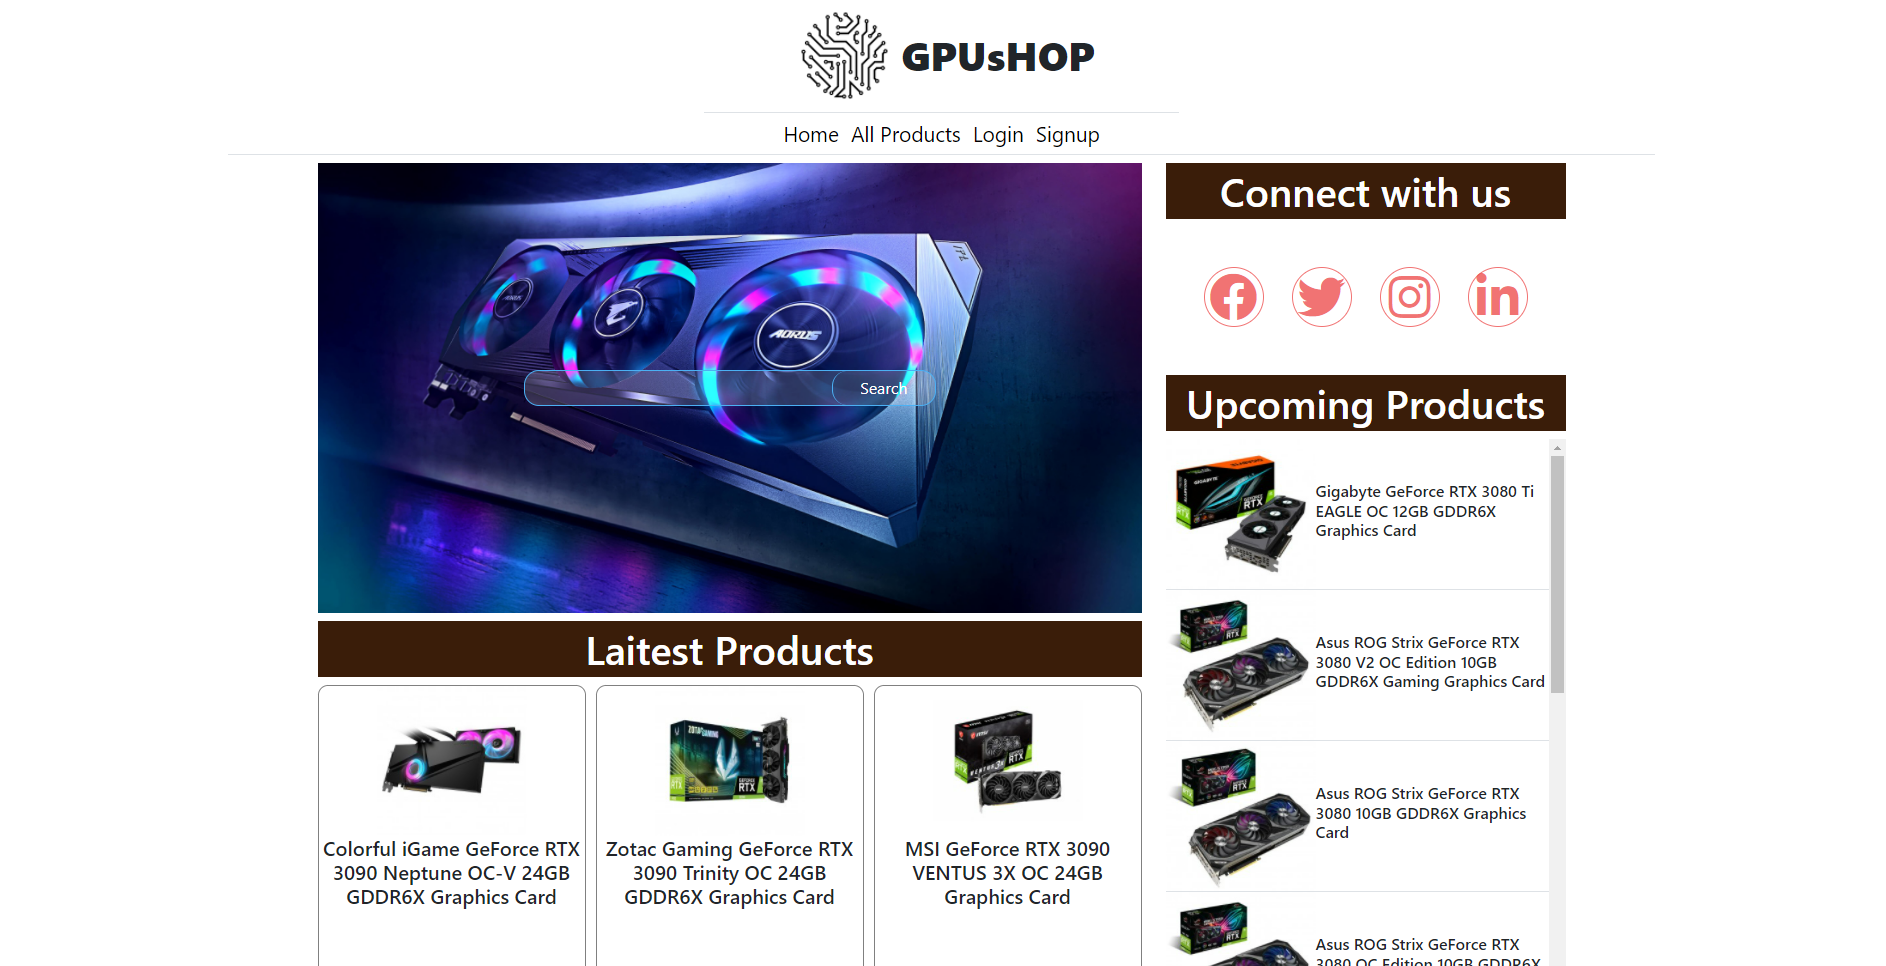
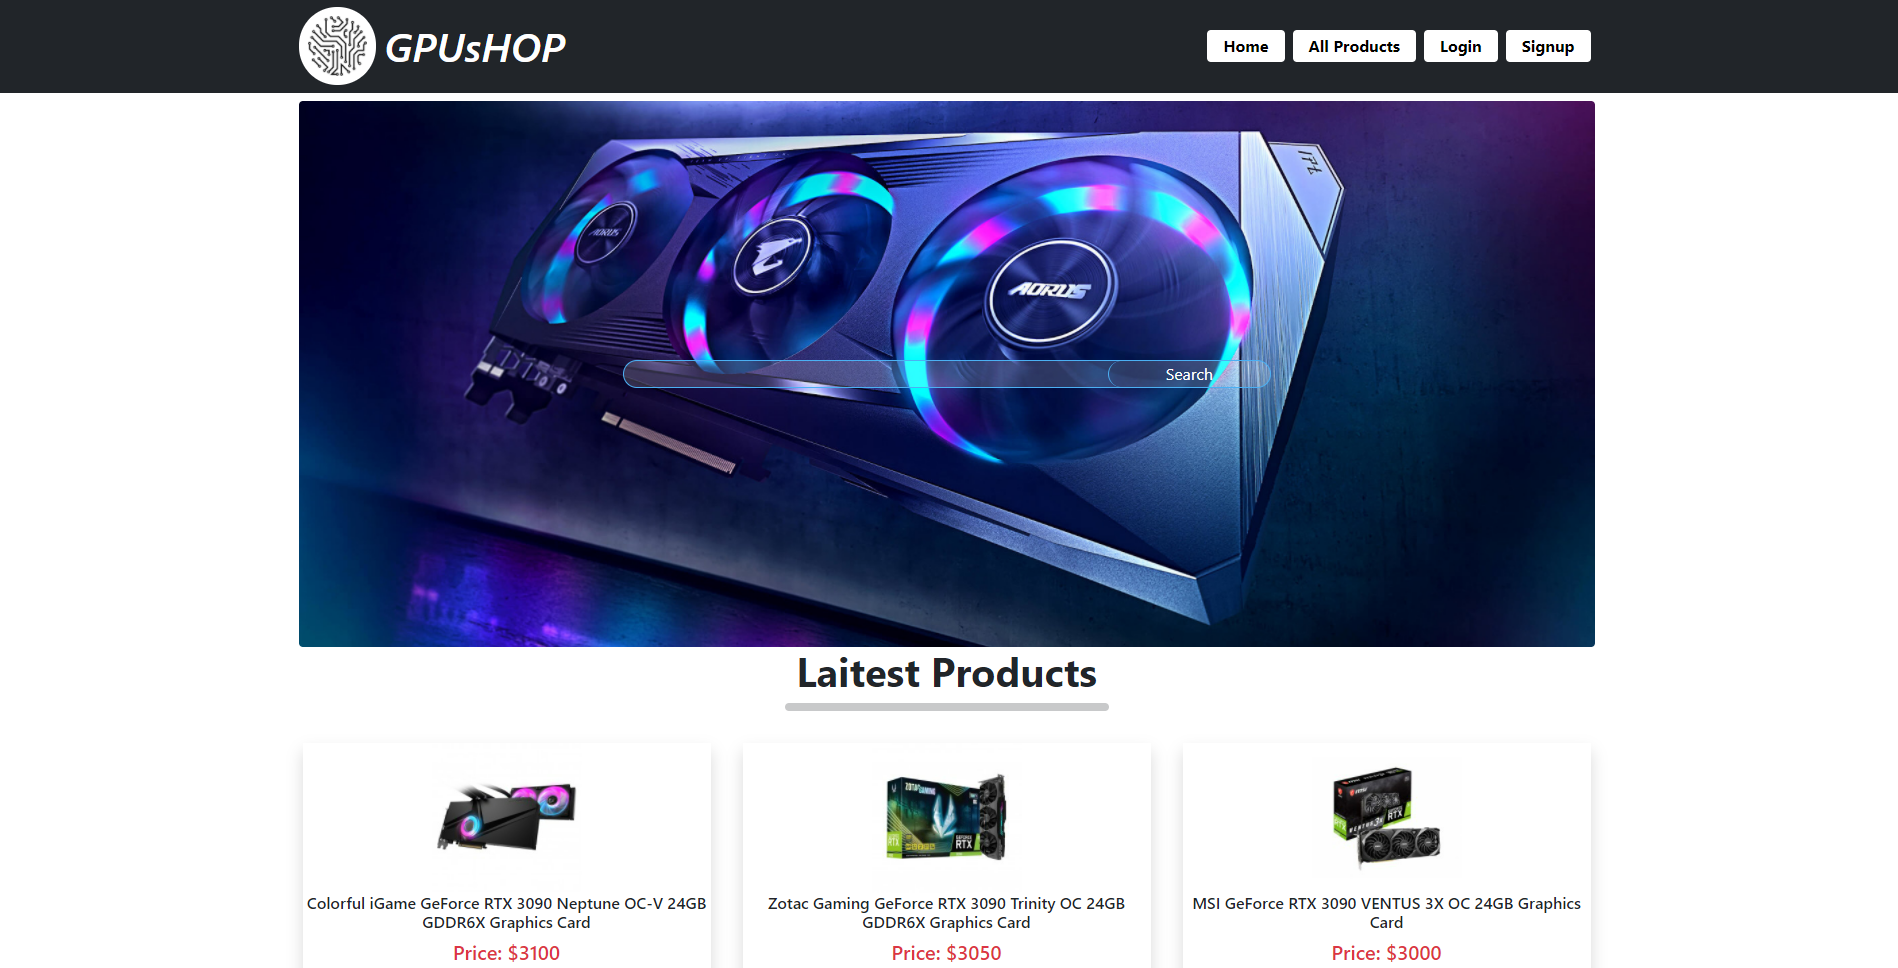
little update

diff --git a/src/Components/Home/Recent/Recent.js b/src/Components/Home/Recent/Recent.js
@@ -46,6 +46,7 @@ const Recent = () => {
             <button>Bootstrap</button>
             <button>Vanilla Css</button>
             <button>Firebase</button>
+            <button>React Router</button>
           </div>
           <a href="https://smallapps247.netlify.app/" target="blank">
             <button className="p-button">Live Site</button>
@@ -62,24 +63,35 @@ const Recent = () => {
         <Col sm={12} md={6} lg={6}>
           <img className="main-img" src={gpu} alt="" />
         </Col>
-        <Col className="text-center p-5" sm={12} md={6} lg={6}>
+        <Col className="text-center pt-2 px-5" sm={12} md={6} lg={6}>
           <h2 className="text-info">Gpu Shop</h2>
           <h6 className="fw-light">
-            Non responsive,less designed,fully functional,dynamic,backend
-            focused,multiple page, e-commerce related small application
+            Fully responsive,fully functional,dynamic,backend focused,multiple
+            page, e-commerce related small application
+          </h6>
+          <h6 className="fw-light">
+            Registered Users can see details,order product,cancel order,write
+            review,Send Messages and many more
+          </h6>
+          <h6 className="fw-light">
+            Admin panel also included for add or remove products,change orders
+            status,cancel orders,promote a registered users to Admin and many
+            more
           </h6>
           <div className="used my-2">
             <button>React</button>
             <button>Javascript</button>
-            <button>Vanilla Css</button>
+            <button>Bootstrap</button>
             <button>Firebase</button>
             <button>axios</button>
-            <button>react-router</button>
+            <button>react-router 6</button>
             <button>Express</button>
             <button>MongoDB</button>
             <button>Heroku</button>
+            <button>Email Js</button>
+            <button>React slick</button>
           </div>
-          <a href="https://gpushop-247.netlify.app/" target="blank">
+          <a href="https://gpushop.netlify.app/" target="blank">
             <button className="p-button">Live Site</button>
           </a>
           <a
